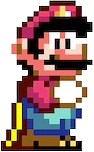
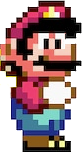
walk left and right animation done

diff --git a/mariow.py b/mariow.py
@@ -7,14 +7,14 @@ pygame.init()
 clock = pygame.time.Clock()
 fps = 60
 
-screen_width = 1000
-screen_height = 1000
+screen_width = 800
+screen_height = 800
 
 screen = pygame.display.set_mode((screen_width, screen_height))
 pygame.display.set_caption('Mariow')
 
 # defining game variable
-tile_size = 50
+tile_size = 40
 
 
 # load images
@@ -26,12 +26,15 @@ class Player():
 
         # animation variables
         self.images_right = []
+        self.images_left = []
         self.index = 0
         self.counter = 0
         for num in range (1, 5):
             img_right = pygame.image.load(f'./assets/mario{num}.png')
             img_right = pygame.transform.scale(img_right, (40, 80))
+            img_left = pygame.transform.flip(img_right, True, False) #.flip flips the image according to x and y index, first true flips horizontaly, second - if true flips verlicaly
             self.images_right.append(img_right)
+            self.images_left.append(img_left)
 
         self.image = self.images_right[self.index]
         self.rect = self.image.get_rect()
@@ -39,6 +42,7 @@ class Player():
         self.rect.y = y
         self.vel_y = 0
         self.jumped = False
+        self.direction = 0
 
     def update(self):
         # calculate new player position
@@ -47,6 +51,8 @@ class Player():
         # delta x and y
         dx = 0
         dy = 0
+        # controls the speed - 5 iterations need to pass before the index update
+        walk_cooldown = 5
 
         # get moving events
         key = pygame.key.get_pressed()
@@ -58,8 +64,30 @@ class Player():
             self.jumped = False
         if key[pygame.K_LEFT]:
             dx -= 5
+            self.counter += 1
+            self.direction = -1
         if key[pygame.K_RIGHT]:
             dx += 5
+            self.counter += 1
+            self.direction = 1
+        if key[pygame.K_LEFT] == False and key[pygame.K_RIGHT] == False:
+            self.counter = 0
+            self.index = 0
+            if self.direction == 1:
+                self.image = self.images_right[self.index]
+            if self.direction == -1:
+                self.image = self.images_left[self.index]
+
+        # handle animation
+        if self.counter > walk_cooldown:
+            self.counter = 0   
+            self.index += 1
+            if self.index >= len(self.images_right):
+                self.index = 0
+            if self.direction == 1:
+                self.image = self.images_right[self.index]
+            if self.direction == -1:
+                self.image = self.images_left[self.index]
 
         # add gravity
         self.vel_y += 1
